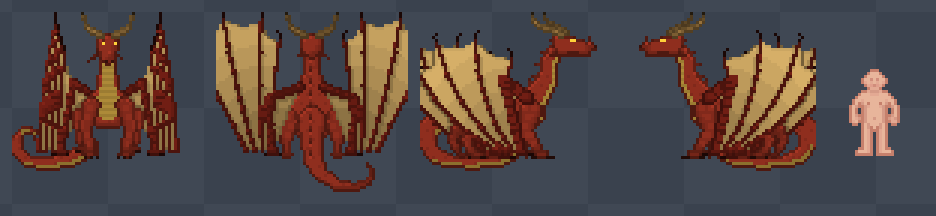
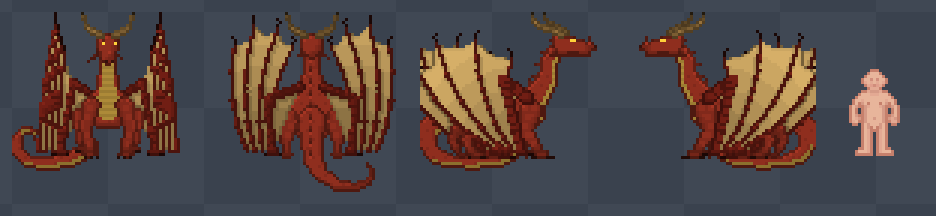
Curl SkyWing back-view wings inward to fit the 64x64 frame
- Back view fingers aim straight at their tips and curl inward at each joint (new `lead`
  option), so they no longer bow out past the frame; outer fingertips pulled in.
- Back-view wings now span x 4-59, y 1-47 instead of running off all three edges.

Changed region(s): [[0.2169, 0.0556, 0.4338, 0.6944]]

diff --git a/Tools/_WoF/skywing_sprites.js b/Tools/_WoF/skywing_sprites.js
@@ -311,7 +311,9 @@ function wingShape(spec, dx = 0, dy = 0) {
     const turn = a => { const px = -uy, py = ux, c = Math.cos(a), sn = Math.sin(a); [ux, uy] = [ux * c + px * sn, uy * c + py * sn]; };
     // fan the fingers apart as they leave the hand (front finger forward, back finger back) so membrane shows
     // right down to the palm, then curl every finger inward at its joints
-    turn(-1.5 * BEND + ((tips.length - 1) / 2 - i) * SPREAD);
+    // lead: how far the finger first turns outward to compensate for the curl (1.5 lands the tip on target;
+    // 0 aims straight at the tip so the finger only curls inward and never bows outward)
+    turn(-(spec.lead ?? 1.5) * BEND + ((tips.length - 1) / 2 - i) * SPREAD);
     const pts = [k0];
     for (let j = 0; j < 4; j++) {
       if (j > 0) { turn(BEND); joints.push([pts[j], [ux, uy]]); }
@@ -359,7 +361,7 @@ const WING_S = { bend: 3, spread: 2, armWeb: true, armRadii: [1.6, 1.4, 1.2], sh
 // Back view: the wings open into a wide V. The wrist rests on the ground right beside the hind leg, the shortest
 // finger stands nearly straight up next to the body, and the longer fingers fan outward to the top corners with
 // membrane across the whole fan. A short arm runs from the shoulder out to the elbow and down to the wrist.
-const WING_N = { bend: 2, spread: 8, armWeb: true, knuckle: 2.6, armRadii: [1.7, 1.5, 1.3], sh: [28, 25], elbow: [17, 29], palm: [19, 46.5], tips: [[13.5, 10], [12, 3], [5.5, 1.5], [1, 9]] };
+const WING_N = { bend: 9, spread: 4, lead: 0, armWeb: true, knuckle: 2.6, armRadii: [1.7, 1.5, 1.3], sh: [28, 25], elbow: [17, 29], palm: [19, 46.5], tips: [[13.5, 10.5], [9.5, 5.5], [4.5, 5], [1.5, 11.5]] };
 
 // Everything that stands in front of the wings in the front view.
 function frontOccluder() {
